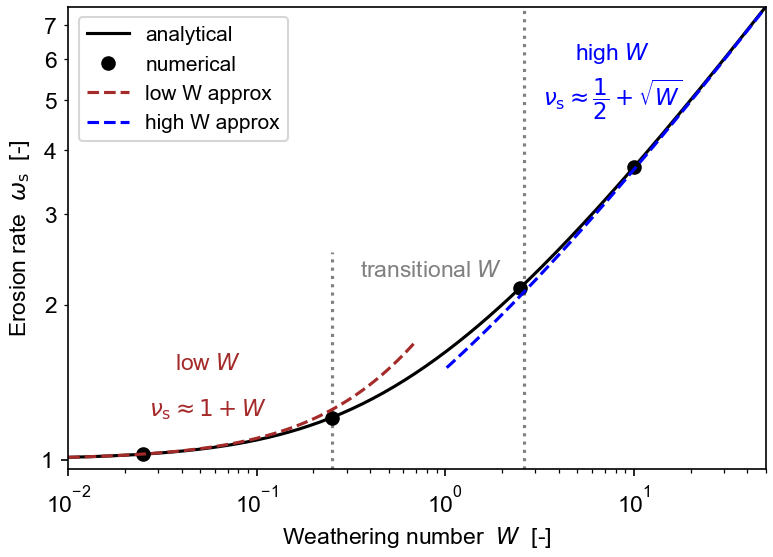
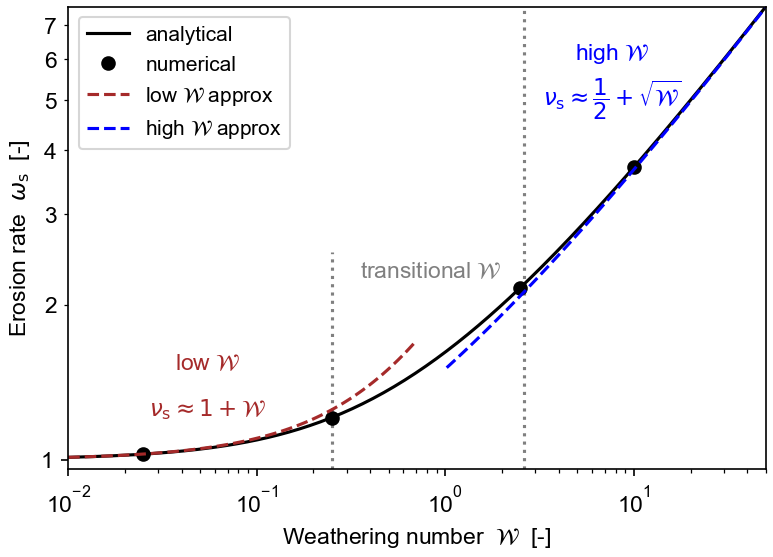
Complete shift to \mathcal{W}

diff --git a/src/wmbe/viz.py b/src/wmbe/viz.py
@@ -537,7 +537,7 @@ class Viz:
             nm.nu_array,  
             color="k", 
             lw=1, 
-            label="$W=${}".format(nm.W),
+            label=r"${\mathcal{W}}=$"+f"{nm.W}",
         )
         plt.legend(loc="center right")
         plt.xlabel(r"Time  $\tau$  [-]")
@@ -660,13 +660,13 @@ class Viz:
             fig_size: tuple[float,float]=(6,4,),
         ) -> None:
         r"""
-        Plot steady-state solution of weakness :math:`{\omega}_s`.
+        Plot steady-state solution of weakness ${\omega}_s$.
         
         Graph the numerical solution 
         of the 1d weathering-mediated erosion model
-        for weakness :math:`{\omega}_s(\chi_i | W)` 
-        as a function of depth from the rock surface :math:`\chi_i`
-        for a given value of the weathering number :math:`W`.
+        for weakness ${\omega}_s(\chi_i | {\mathcal{W}})$ 
+        as a function of depth from the rock surface $\chi_i$
+        for a given value of the weathering number 4{\mathcal{W}}$.
             
         Args:
             fig (:obj:`Matplotlib figure <matplotlib.figure.Figure>`): 
@@ -686,14 +686,25 @@ class Viz:
         chi_s__= nm.chi_array[phi0__:]-nm.chi_array[phi0__+i_offset]
         tau__  = nm.tau_array[-1]
 
-        eta_s_numerical  = nm.eta_array[j__,phi0__:]
-        eta_s_analytical = eta_chi_tau(chi_s__,tau__,nm.W)
+        eta_s_numerical  = nm.eta_array[j__, phi0__:]
+        eta_s_analytical = eta_chi_tau(chi_s__, tau__, nm.W)
         
         chi_front = chi_s__[eta_s_numerical==0][-1]
-        plt.plot(chi_s__[chi_s__>=chi_front],eta_s_numerical[chi_s__>=chi_front],
-                color="k", lw=1, label="numerical")
-        plt.plot(chi_s__[chi_s__>=chi_front],eta_s_analytical[chi_s__>=chi_front], 
-                color="r", lw=2, label="analytical", ls=(0, (4, 5)) )
+        plt.plot(
+            chi_s__[chi_s__>=chi_front],
+            eta_s_numerical[chi_s__>=chi_front],
+            color="k", 
+            lw=1, 
+            label="numerical",
+        )
+        plt.plot(
+            chi_s__[chi_s__>=chi_front],
+            eta_s_analytical[chi_s__>=chi_front], 
+            color="r", 
+            lw=2, 
+            label="analytical", 
+            ls=(0, (4, 5)),
+        )
         plt.xlim(nm.tau_array[0],nm.tau_array[-1])
         
         axes = plt.gca()
@@ -732,13 +743,13 @@ class Viz:
             fig_size: tuple[float,float]=(6,4,),
         ) -> None:            
         r"""
-        Plot a set of steady-state solutions of weakness :math:`{\omega}_s`.
+        Plot a set of steady-state solutions of weakness ${\omega}_s$.
         
         Graph a set of numerical solution 
         of the 1d weathering-mediated erosion model
-        for weakness :math:`{\omega}_s(\chi_i | W)` 
-        as a function of depth from the rock surface :math:`\chi_i`
-        for a set of weathering numbers :math:`W`.
+        for weakness ${\omega}_s(\chi_i | {\mathcal{W}})$
+        as a function of depth from the rock surface $\chi_i$
+        for a set of weathering numbers ${\mathcal{W}}$.
         
         Args:
             fig (:obj:`Matplotlib figure <matplotlib.figure.Figure>`): 
@@ -826,14 +837,14 @@ class Viz:
             fig_size: tuple[float,float]=(6,4,),
         ) -> None:
         r"""
-        Plot the 1d model steady-state erosion rate $\nu_s$
-        versus weathering number $W$.
+        Plot the 1d model steady-state erosion rate $\nu_s$ 
+        versus weathering number ${\mathcal{W}}$.
         
         Graph the functional dependence of dimensionless steady-state 
-        erosion rate $\nu_s$ as a function of versus weathering number $W4
+        erosion rate $\nu_s$ as a function of versus weathering number ${\mathcal{W}}$
         for the 1d weathering-mediated erosion model.
         The analytical solution is plotted as a black curve; numerical solutions are
-        plotted as black circles; asymptotic behavior for low and high $W$
+        plotted as black circles; asymptotic behavior for low and high ${\mathcal{W}}$
         are shown as dashed lines. Explanatory annotations are includexpt_data.
         
         Args:
@@ -866,12 +877,16 @@ class Viz:
             axes.set_yscale("log",) # nonposy="clip")
             axes.yaxis.set_major_formatter(ticker.FormatStrFormatter("%0.0f"))
             axes.yaxis.set_minor_formatter(ticker.FormatStrFormatter("%0.0f"))
-            plt.plot((0.25,0.25),(y_limits[0],y_limits[1]/3), color="gray", ls=":")
-            plt.plot((2.63,2.63),(y_limits[0],y_limits[1]), color="gray", ls=":")
+            plt.plot(
+                (0.25,0.25), (y_limits[0],y_limits[1]/3), color="gray", ls=":",
+            )
+            plt.plot(
+                (2.63,2.63), (y_limits[0],y_limits[1]), color="gray", ls=":",
+            )
     #         plt.ylim(*y_limits)
             plt.text(
                 0.2, 0.23, 
-                r"low ${{W}}$", 
+                r"low ${\mathcal{W}}$", 
                 color="brown",
                 verticalalignment="center", 
                 horizontalalignment="center",
@@ -879,7 +894,7 @@ class Viz:
             )
             plt.text(
                 0.2, 0.13, 
-                r"$\nu_\mathsf{{s}} \approx 1 + W$", 
+                r"$\nu_\mathsf{{s}} \approx 1 + {\mathcal{W}}$", 
                 color="brown",
                 verticalalignment="center", 
                 horizontalalignment="center",
@@ -890,7 +905,7 @@ class Viz:
             #          transform=axes.transAxes)
             plt.text(
                 0.52, 0.43, 
-                r"transitional ${{W}}$", 
+                r"transitional ${\mathcal{W}}$", 
                 color="gray",
                 verticalalignment="center", 
                 horizontalalignment="center",
@@ -898,7 +913,7 @@ class Viz:
             )
             plt.text(
                 0.78, 0.9, 
-                r"high ${{W}}$", 
+                r"high ${\mathcal{W}}$", 
                 color="blue",
                 verticalalignment="center", 
                 horizontalalignment="center",
@@ -906,7 +921,7 @@ class Viz:
             )
             plt.text(
                 0.78, 0.8, 
-                r"$\nu_\mathsf{{s}} \approx \dfrac{1}{2}+\sqrt{W}$", 
+                r"$\nu_\mathsf{{s}} \approx \dfrac{1}{2}+\sqrt{{\mathcal{W}}}$", 
                 color="blue",
                 verticalalignment="center", 
                 horizontalalignment="center",
@@ -919,13 +934,28 @@ class Viz:
             
         if nms is not None:
             for idx,nus_soln in enumerate(nms):
-                plt.plot(nus_soln.W,nus_soln.nu_s,"o",c="k",
-                        label=("numerical" if idx==0 else None))
+                plt.plot(
+                    nus_soln.W,
+                    nus_soln.nu_s,
+                    "o",
+                    c="k",
+                    label=("numerical" if idx==0 else None),
+                )
         
-        plt.plot(W_array[W_array<0.7],1+W_array[W_array<0.7], 
-                label="low W approx",  ls="--",c="brown")
-        plt.plot(W_array[W_array>1],0.5+np.sqrt(W_array[W_array>1]), 
-                label="high W approx", ls="--",c="blue")
+        plt.plot(
+            W_array[W_array<0.7],
+            1+W_array[W_array<0.7], 
+            label=r"low ${\mathcal{W}}$ approx",  
+            ls="--",
+            c="brown",
+        )
+        plt.plot(
+            W_array[W_array>1],
+            0.5+np.sqrt(W_array[W_array>1]), 
+            label=r"high ${\mathcal{W}}$ approx", 
+            ls="--",
+            c="blue",
+        )
         if text_label is not None:
             plt.text(
                 0.82,0.25, 
@@ -938,7 +968,7 @@ class Viz:
             )
         
         plt.legend(loc="upper left", fontsize=10,)
-        plt.xlabel(r"Weathering number  ${{W}}$  [-]")
+        plt.xlabel(r"Weathering number  ${\mathcal{W}}$  [-]")
         plt.ylabel(r"Erosion rate  ${\omega}_\mathsf{{s}}$  [-]")
         # plt.grid(ls=":")
 
@@ -970,29 +1000,29 @@ class Viz:
             plt.title(title, fontdict={"fontsize": 11.5})
         
         n_W_pts = 200
-        W_array    = np.exp(np.linspace(np.log(0.015),np.log(50),n_W_pts))
+        W_array = np.exp(np.linspace(np.log(0.015),np.log(50),n_W_pts))
         nus_array = np.array([eqns.nus_eqn_W.rhs.subs({W:W__}) for W__ in W_array])
         plt.plot(W_array, 1+0*W_array, color="k", lw=1.5)
         axes = plt.gca()
         plt.plot(W_array[W_array<0.48], 
             nus_array[W_array<0.48]/(1+(W_array[W_array<0.48])),
-                color="brown", ls="-", lw=1.5, label="low ${{W}}$ approx")
+                color="brown", ls="-", lw=1.5, label="low ${\mathcal{W}}$ approx")
         plt.plot(W_array[W_array>1], 
                 nus_array[W_array>1]/(0.5+np.sqrt(W_array[W_array>1])),
-                color="b", ls="-", lw=1.5, label="high ${{W}}$ approx")
-        plt.text(0.18,0.18, r"low ${{W}}$", color="brown",
+                color="b", ls="-", lw=1.5, label="high ${\mathcal{W}}$ approx")
+        plt.text(0.18,0.18, r"low ${\mathcal{W}}$", color="brown",
                 verticalalignment="center", horizontalalignment="center",
                 transform=axes.transAxes)
-        plt.text(0.18,0.26, r"$\nu_\mathsf{{s}} \approx 1 + W$", color="brown",
+        plt.text(0.18,0.26, r"$\nu_\mathsf{{s}} \approx 1 + {\mathcal{W}}$", color="brown",
                 verticalalignment="center", horizontalalignment="center",
                 transform=axes.transAxes)
-        plt.text(0.5,0.53, r"transitional ${{W}}$", color="gray",
+        plt.text(0.5,0.53, r"transitional ${\mathcal{W}}$", color="gray",
                 verticalalignment="center", horizontalalignment="center",
                 transform=axes.transAxes)
-        plt.text(0.82,0.85, r"high ${{W}}$", color="blue",
+        plt.text(0.82,0.85, r"high ${\mathcal{W}}$", color="blue",
                 verticalalignment="center", horizontalalignment="center",
                 transform=axes.transAxes)
-        plt.text(0.82,0.75, r"$\nu_\mathsf{{s}} \approx \dfrac{1}{2}+\sqrt{W}$", 
+        plt.text(0.82,0.75, r"$\nu_\mathsf{{s}} \approx \dfrac{1}{2}+\sqrt{{\mathcal{W}}}$", 
                 color="blue",
                 verticalalignment="center", horizontalalignment="center",
                 transform=axes.transAxes)
@@ -1010,7 +1040,7 @@ class Viz:
         plt.plot((0.25,0.25),y_limits, color="gray", ls=":")
         plt.plot((2.63,2.63),y_limits, color="gray", ls=":")
         plt.legend(loc="upper left")
-        plt.xlabel("Weathering number  ${{W}}$  [-]")
+        plt.xlabel("Weathering number  ${\mathcal{W}}$  [-]")
         plt.ylabel(
             r"Approx erosion rate deviation  "
             + r"$\nu_\mathsf{{s}}^\mathrm{apx}/\nu_\mathsf{{s}}$  [-]"
@@ -1175,8 +1205,12 @@ class Viz:
         plt.plot(model.v0_array, model.z_array, label="${u_0}$")
         x_limits = plt.xlim()
         y_limits = plt.ylim()
-        plt.plot([-1,-1], label="$W=w_0/{u_0} k$", color="forestgreen")  # dummy
-        plt.plot(model.vs_array, model.z_array, label="$v_s$", color="k", lw=2)
+        plt.plot(
+            [-1,-1], label="${\mathcal{W}}=w_0/{u_0} k$", color="forestgreen",
+        )
+        plt.plot(
+            model.vs_array, model.z_array, label="$v_s$", color="k", lw=2,
+        )
         plt.xlim(x_limits)
         plt.ylim(y_limits)
         plt.xlabel(r"Speeds $w_0(z)/k$, ${u_0}(z)$, $v_s(z)$")
@@ -1186,8 +1220,15 @@ class Viz:
 
         axes = plt.gca()
         alt_axes = axes.twiny()
-        alt_axes.plot(model.W_array,  model.z_array, label="${{W}}$", color="forestgreen")
-        alt_axes.set_xlabel("Weathering number  $W(z)$", color="forestgreen")
+        alt_axes.plot(
+            model.W_array,  
+            model.z_array, 
+            label="${\mathcal{W}}$", 
+            color="forestgreen",
+        )
+        alt_axes.set_xlabel(
+            "Weathering number  ${\mathcal{W}}(z)$", color="forestgreen",
+        )
         x_limits = axes.get_xlim()
         axes.set_xlim(x_limits[0],x_limits[1]*1.05)
 